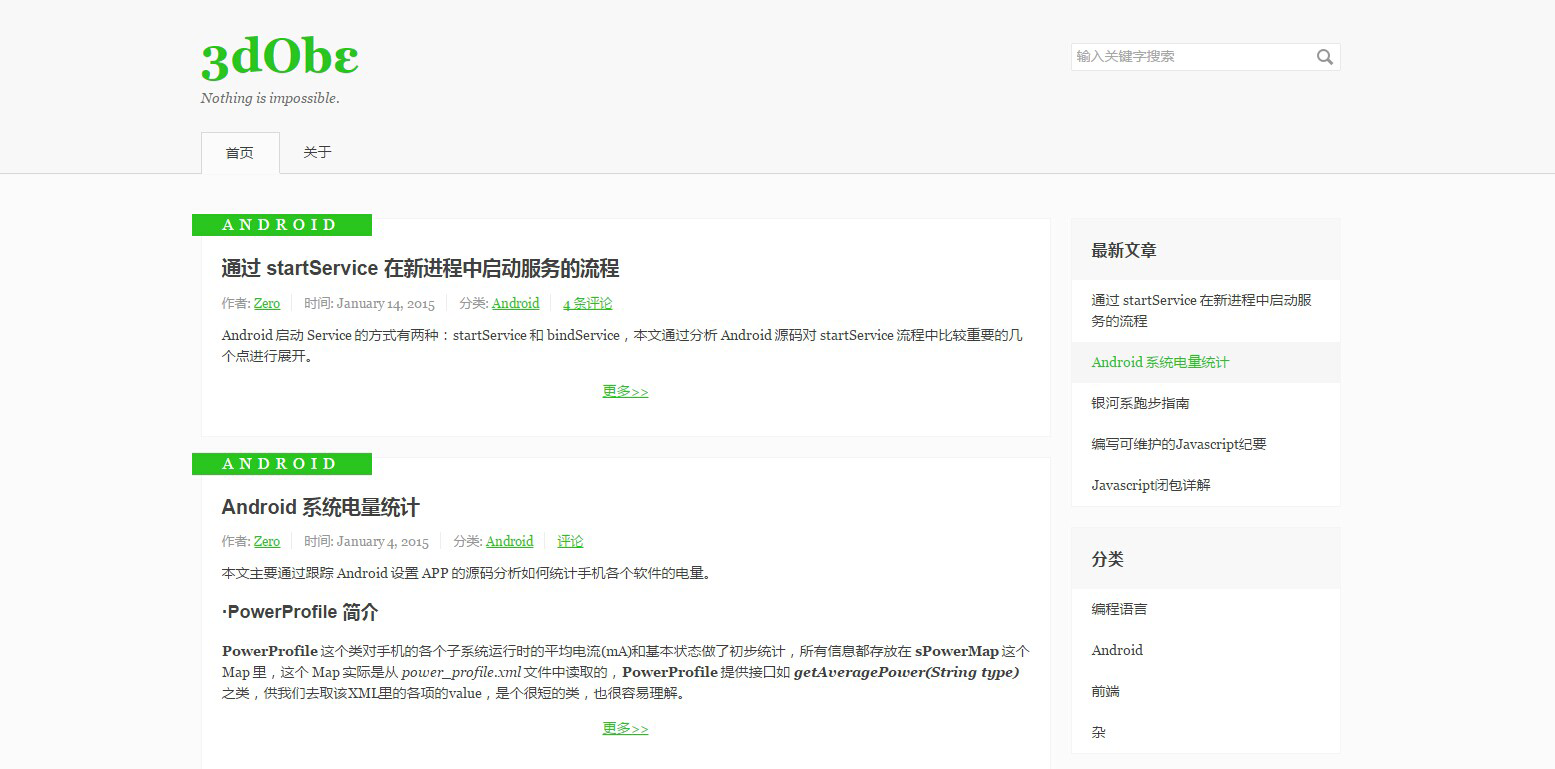
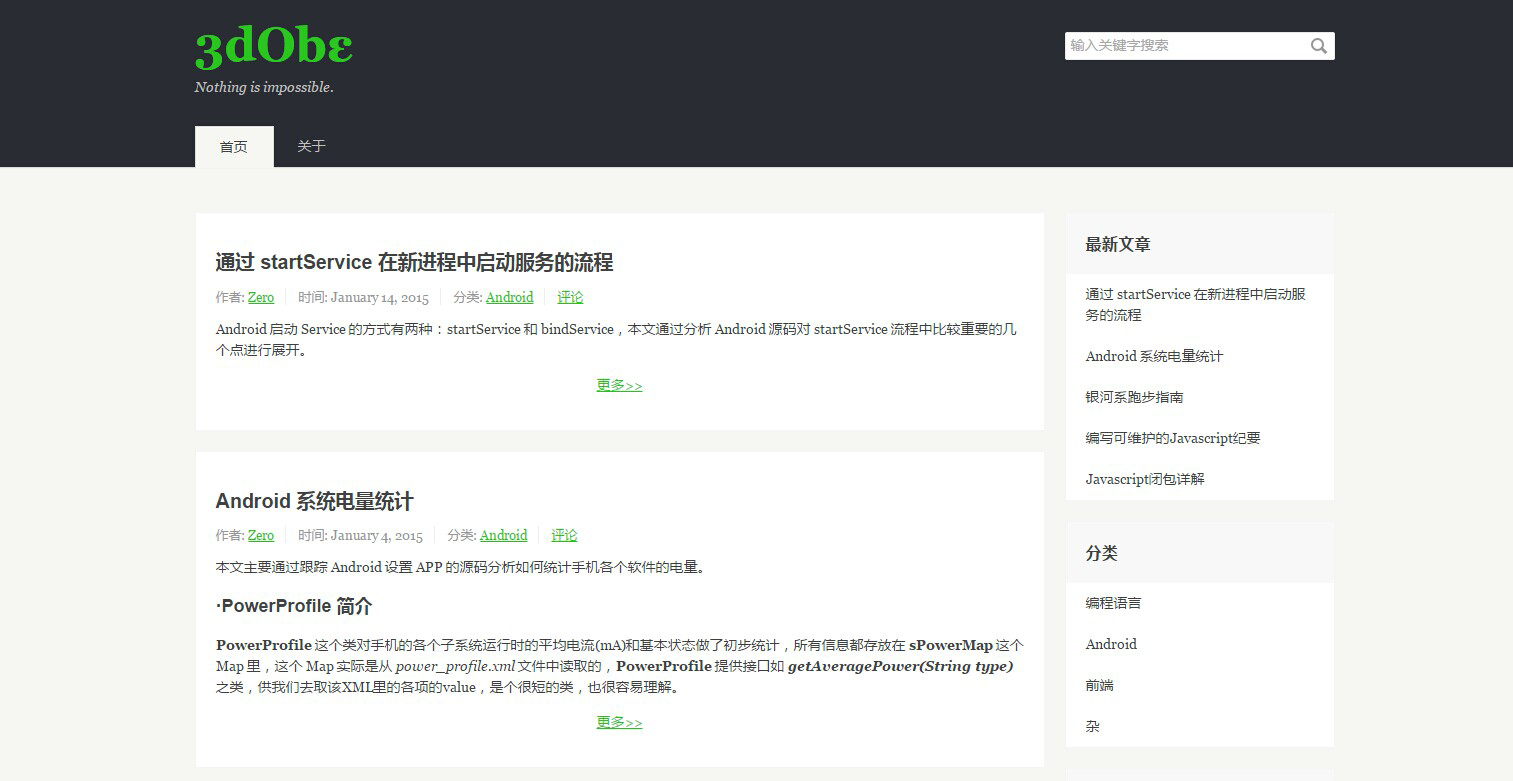
remove post-finger

diff --git a/style.css b/style.css
@@ -3,7 +3,7 @@ html {
 }
 
 body {
-	background-color: #fbfbfb;
+	background-color: #F6F6F3;
 	color: #444;
 	font-family: "Droid Serif",Georgia,"Times New Roman",STHeiti,serif,"Microsoft YaHei";
 	font-size: 87.5%;
@@ -135,8 +135,8 @@ textarea {
 }
 
 #header {
-	padding-top: 35px;
-	background-color: #f8f8f8;
+	padding-top: 20px;
+	background-color: #292D33;
 	-webkit-box-shadow: 0 0px 2px 0 rgba(0,0,0,0.1),0 1px 0 0 rgba(0,0,0,0.1);
 	-moz-box-shadow: 0 0px 2px 0 rgba(0,0,0,0.1),0 1px 0 0 rgba(0,0,0,0.1);
 	box-shadow: 0 0px 2px 0 rgba(0,0,0,0.1),0 1px 0 0 rgba(0,0,0,0.1);
@@ -155,42 +155,42 @@ textarea {
 
 .description {
 	margin: .5em 0 0;
-	color: #737373;
+	color: #bbb;
 	font-style: italic;
 	/*text-shadow: 0px 0px 5px #CDCDCD;*/
 }
 
 #nav-menu {
-	margin: 25px 0 0;
+	margin: 30px 0 0;
 	padding: 0;
 }
 
 #nav-menu a {
 	display: block;
 	float: left;
-	color: #444;
+	color: #bbb;
 	text-decoration: none;
 	margin-right: -1px;
 	padding: 5px 25px;
 	border-bottom: none;
 	height: 32px;
 	line-height: 32px;
-	background-color: #F8F8F8;
+	background-color: #292D33;
 }
 
 #nav-menu a:hover {
 	color: #20C29D;
-	background: #fbfbfb;
+	/*background: #fbfbfb;*/
 }
 
 #nav-menu .current {
 	position: relative;
 	color: #444;
-	background: #fbfbfb;
+	background: #F6F6F3;
 	bottom: -1px;
 	border: 1px solid #DADADA;
 	padding: 4px 25px 4px 24px;
-	border-bottom: 1px solid #fbfbfb;
+	border-bottom: 1px solid #F6F6F3;
 }
 
 #search {
@@ -238,27 +238,6 @@ textarea {
 	/*-webkit-box-shadow: 0 1px 1px #eee;
 	-moz-box-shadow: 0 1px 1px #eee;
 	box-shadow: 0 0px 1px #eee;*/
-}
-
-.post-finger {
-	font-size: 16px;
-	letter-spacing: 6px;
-	text-transform: uppercase;
-	min-width: 50px;
-	padding: 0px 30px;
-	height: 20px;
-	position: absolute;
-	top: -5px;
-	left: -10px;
-	background-color: #2AC51F;
-	border: 1px solid #39BE30;
-	text-align: center;
-	line-height: 20px;
-}
-
-.post-finger a {
-	color: #fff;
-	text-decoration: none;
 }
 
 .post-title {

diff --git a/index.php b/index.php
@@ -15,7 +15,6 @@ if (!defined('__TYPECHO_ROOT_DIR__')) exit;
 <div class="col-mb-12 col-9" id="main" role="main">
 	<?php while($this->next()): ?>
         <article class="post" itemscope itemtype="http://schema.org/BlogPosting">
-        	<div class="post-finger"><?php $this->category(','); ?></div>
 			<h2 class="post-title" itemprop="name headline"><a itemtype="url" href="<?php $this->permalink() ?>"><?php $this->title() ?></a></h2>
 			<ul class="post-meta">
 				<li itemprop="author" itemscope itemtype="http://schema.org/Person"><?php _e('作者: '); ?><a itemprop="name" href="<?php $this->author->permalink(); ?>" rel="author"><?php $this->author(); ?></a></li>

diff --git a/post.php b/post.php
@@ -3,7 +3,6 @@
 
 <div class="col-mb-12 col-8" id="main" role="main">
     <article class="post" itemscope itemtype="http://schema.org/BlogPosting">
-        <div class="post-finger"><?php $this->category(','); ?></div>
         <h1 class="post-title" itemprop="name headline"><a itemtype="url" href="<?php $this->permalink() ?>"><?php $this->title() ?></a></h1>
         <ul class="post-meta">
             <li itemprop="author" itemscope itemtype="http://schema.org/Person"><?php _e('作者: '); ?><a itemprop="name" href="<?php $this->author->permalink(); ?>" rel="author"><?php $this->author(); ?></a></li>
